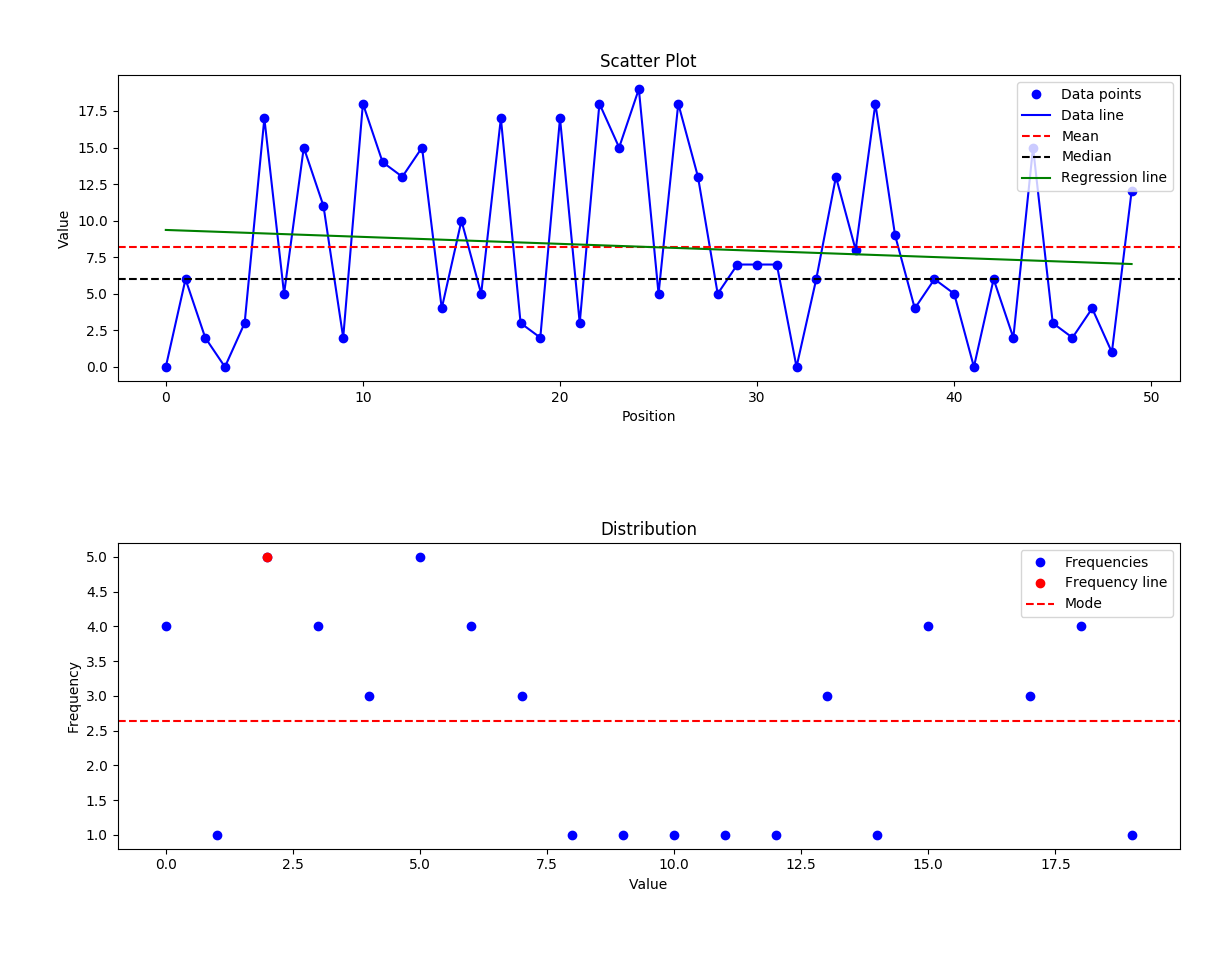
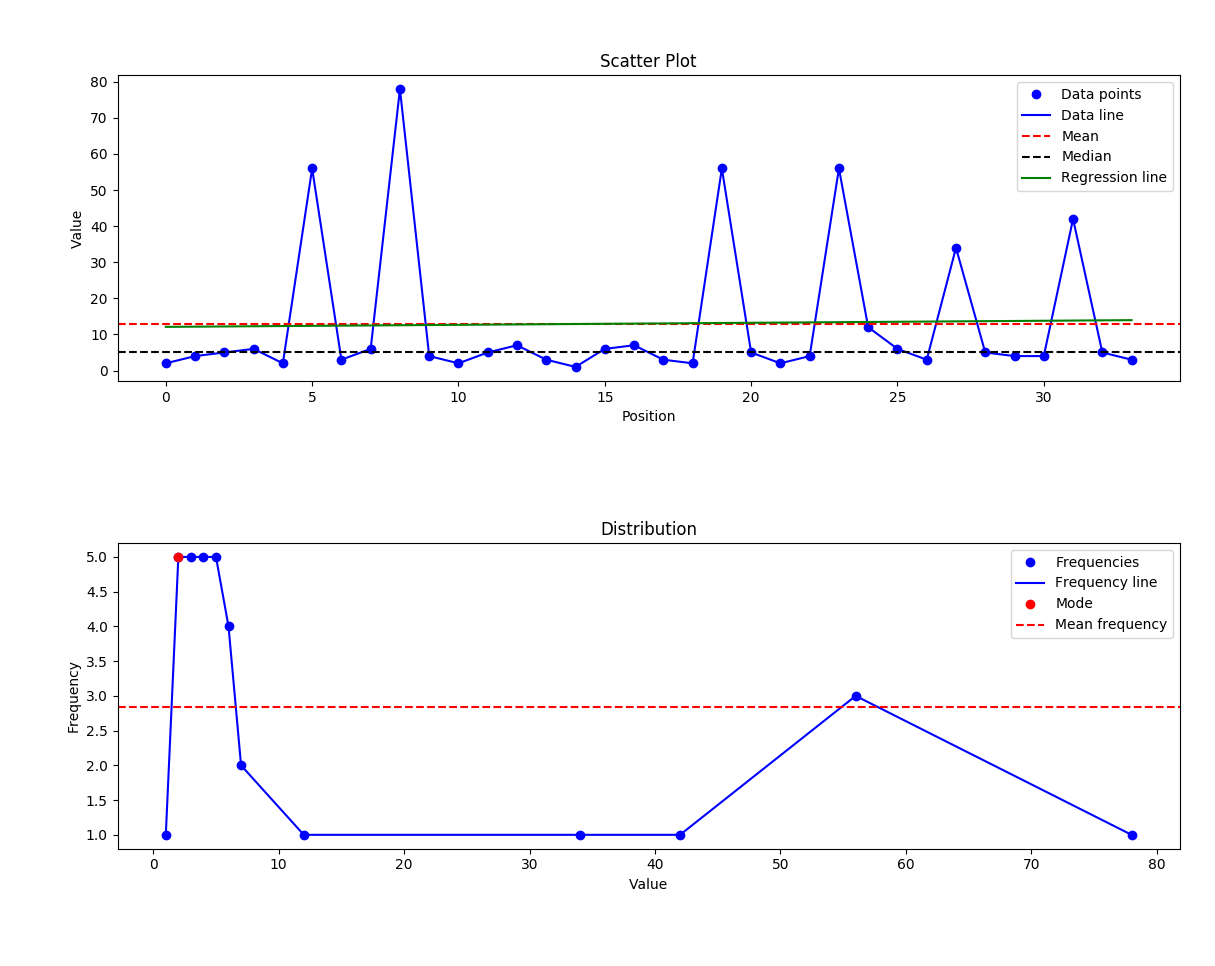
dataviz tweak

diff --git a/main.py b/main.py
@@ -2,12 +2,14 @@ import numpy as np
 import matplotlib.pyplot as plt
 import math
 import argparse
+import operator
 
 parser = argparse.ArgumentParser()
 parser.add_argument('--file')
 results = parser.parse_args()
 
 data = np.loadtxt(results.file)
+print(data)
 len = len(data)
 points = range(0, len)
 # Mean
@@ -53,7 +55,8 @@ subplot1.legend(['Data points', 'Data line', 'Mean', 'Median', 'Regression line'
 subplot2 = fig.add_subplot(212)
 
 subplot2.plot(fq.keys(), fq.values(), 'bo')
-#subplot2.plot(fq.keys(), fq.values(), 'b-')
+sorted_fq = sorted(fq.items(), key=operator.itemgetter(0))
+subplot2.plot([elem[0] for elem in sorted_fq], [elem[1] for elem in sorted_fq], 'b-')
 
 subplot2.plot(mode, fq[mode], 'ro')
 mean_fq = np.mean(list(fq.values()))
